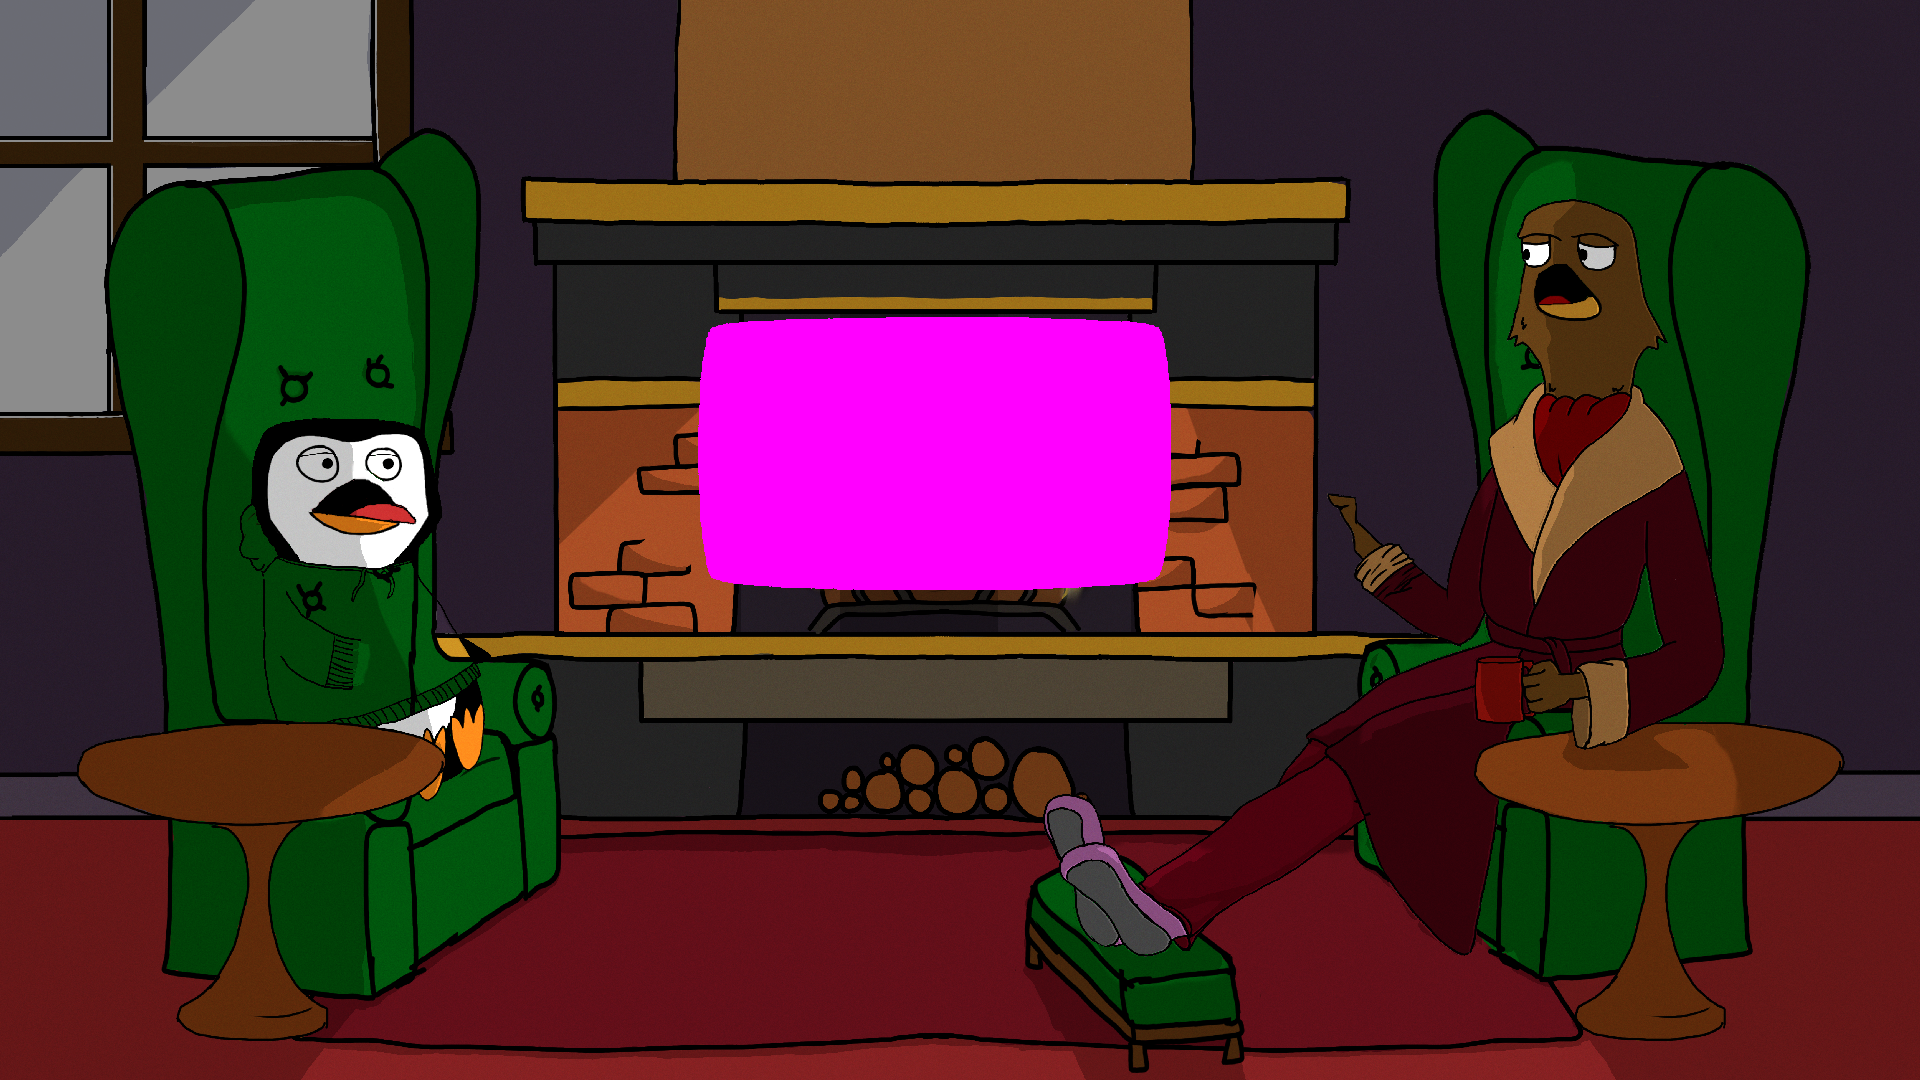
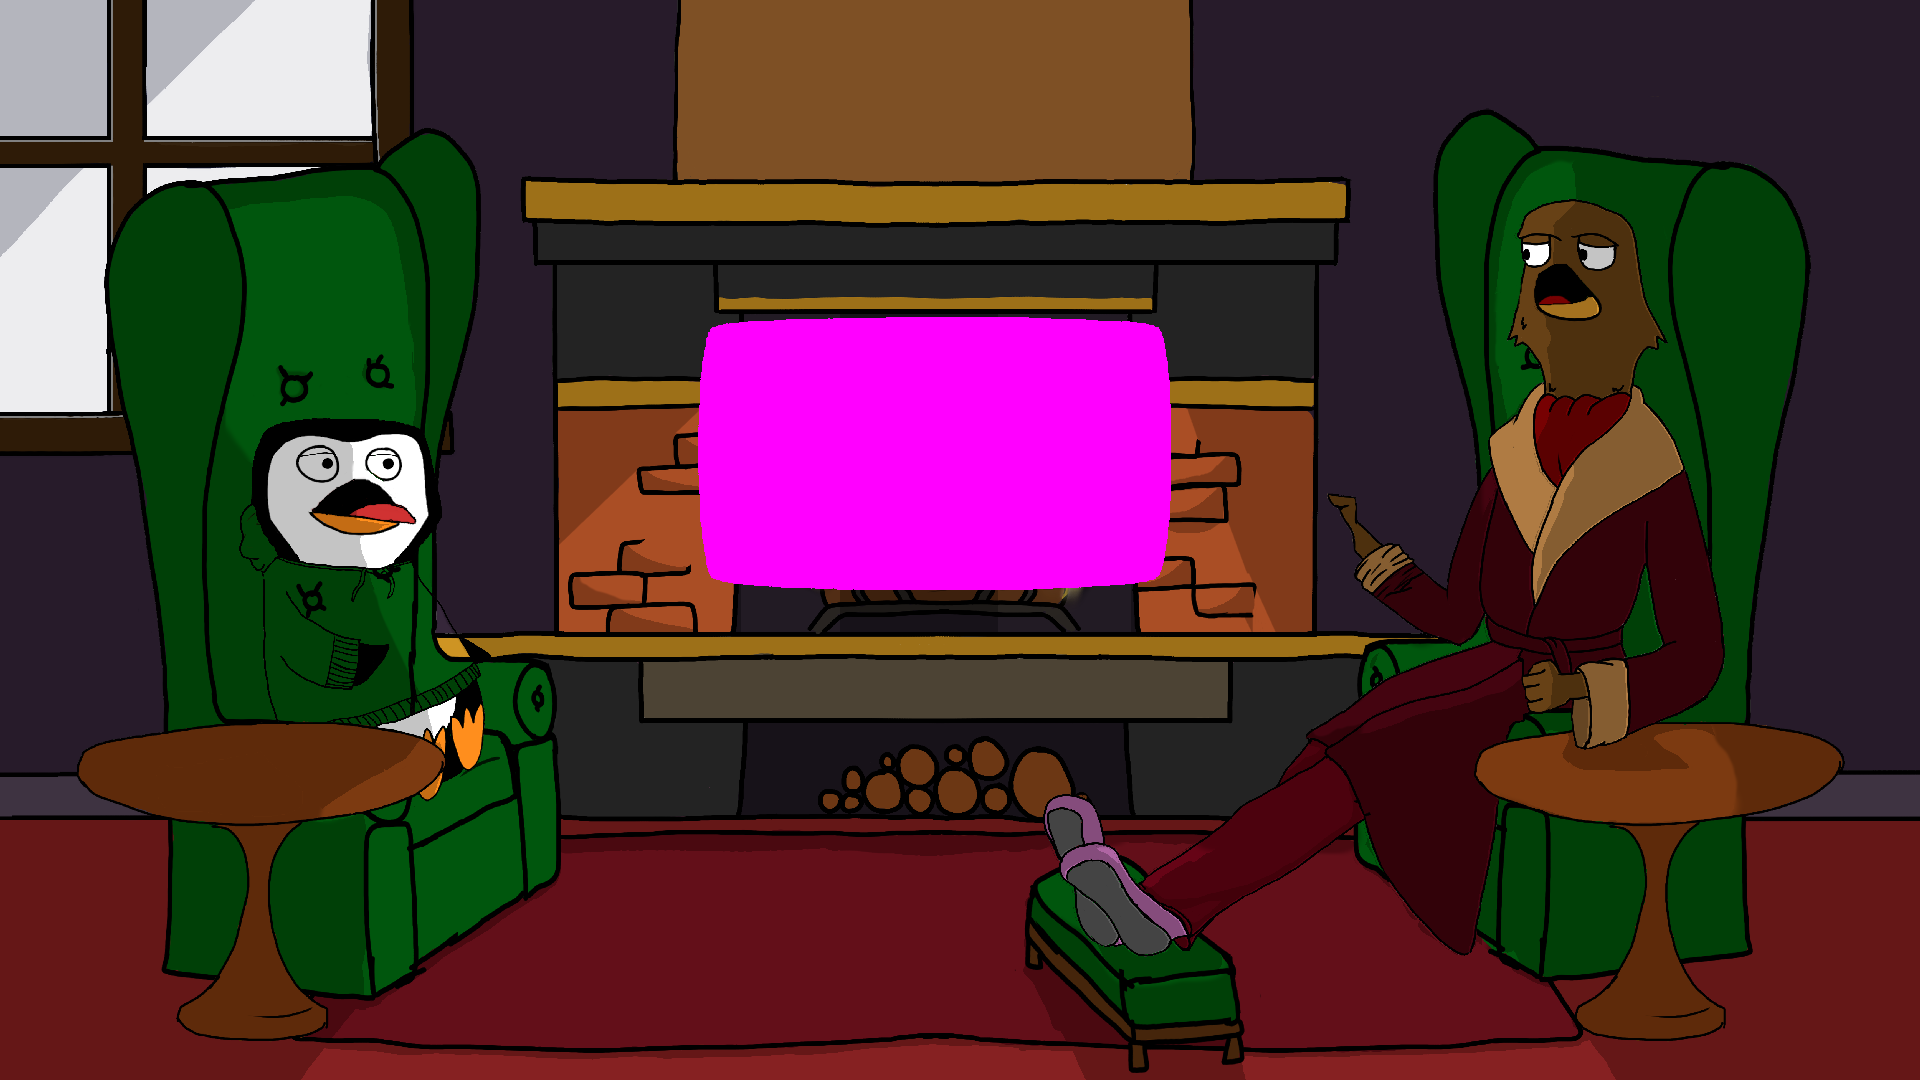
Expand handheld props

Changed region(s): [[0.0, 0.0, 0.2188, 0.3972], [0.75, 0.6111, 0.8125, 0.6722], [0.1875, 0.5806, 0.2188, 0.6417]]

diff --git a/src/data/testplate.ts b/src/data/testplate.ts
@@ -110,6 +110,20 @@ export const testplate: Template = {
             compositeType: 'overlay',
         },
         {
+            id: 'pengwyn-santa',
+            class: 'pengwyn-hat',
+            sprites: [
+                '/assets/sprites/pengwyn/santa.png',
+            ],
+            origin: {
+                x: 227,
+                y: 364,
+            },
+            propType: 'image',
+            compositeType: 'overlay',
+            disabled: true,
+        },
+        {
             id: 'kiwi-eyes',
             sprites: [
                 '/assets/sprites/kiwi/kiwieyes.png',
@@ -133,6 +147,20 @@ export const testplate: Template = {
             },
             propType: 'image',
             compositeType: 'overlay',
+        },
+        {
+            id: 'kiwi-santa',
+            class: 'kiwi-hat',
+            sprites: [
+                '/assets/sprites/kiwi/santa.png',
+            ],
+            origin: {
+                x: 1521,
+                y: 161,
+            },
+            propType: 'image',
+            compositeType: 'overlay',
+            disabled: true,
         },
     ],
     video: {
@@ -213,6 +241,19 @@ export const testplate: Template = {
             compositeType: 'overlay',
         },
         {
+            id: 'razz-x1',
+            class: 'razz-held-right',
+            sprites: [
+                '/assets/sprites/pengwyn/razzX1.png',
+            ],
+            origin: {
+                x: 368,
+                y: 604,
+            },
+            propType: 'image',
+            compositeType: 'overlay',
+        },
+        {
             id: 'kiwi-treaty',
             class: 'kiwi-held-right',
             sprites: [
@@ -260,6 +301,71 @@ export const testplate: Template = {
             origin: {
                 x: 1236,
                 y: 449,
+            },
+            propType: 'image',
+            compositeType: 'overlay',
+        },
+        {
+            id: 'kiwi-x1',
+            class: 'kiwi-held-right',
+            sprites: [
+                '/assets/sprites/kiwi/kiwiX1.png',
+            ],
+            origin: {
+                x: 1229,
+                y: 476,
+            },
+            propType: 'image',
+            compositeType: 'overlay',
+        },
+        {
+            id: 'kiwi-wii',
+            class: 'kiwi-held-right',
+            sprites: [
+                '/assets/sprites/kiwi/kiwiWii.png',
+            ],
+            origin: {
+                x: 1256,
+                y: 436,
+            },
+            propType: 'image',
+            compositeType: 'overlay',
+        },
+        {
+            id: 'kiwi-cheese',
+            class: 'kiwi-held-right',
+            sprites: [
+                '/assets/sprites/kiwi/kiwiCheese.png',
+            ],
+            origin: {
+                x: 1252,
+                y: 435,
+            },
+            propType: 'image',
+            compositeType: 'overlay',
+        },
+        {
+            id: 'kiwi-mug',
+            class: 'kiwi-held-left',
+            sprites: [
+                '/assets/sprites/kiwi/kiwiMug.png',
+            ],
+            origin: {
+                x: 1475,
+                y: 656,
+            },
+            propType: 'image',
+            compositeType: 'overlay',
+        },
+        {
+            id: 'kiwi-wiichuck',
+            class: 'kiwi-held-left',
+            sprites: [
+                '/assets/sprites/kiwi/kiwiWiichuck.png',
+            ],
+            origin: {
+                x: 1493,
+                y: 659,
             },
             propType: 'image',
             compositeType: 'overlay',

diff --git a/src/App.tsx b/src/App.tsx
@@ -127,7 +127,6 @@ function App() {
     async function generatePreviewFrame() {
         if (videoData) {
             const scene = await sceneFromTemplate(template, [videoData], audioData, audioSplit);
-            console.log(scene);
             const singleFrameScene: Scene = { ...scene, frames: [scene.frames[0]] };
             const render = await invoke('renderFrame', { payload: singleFrameScene });
             setFrames([render as string]);
